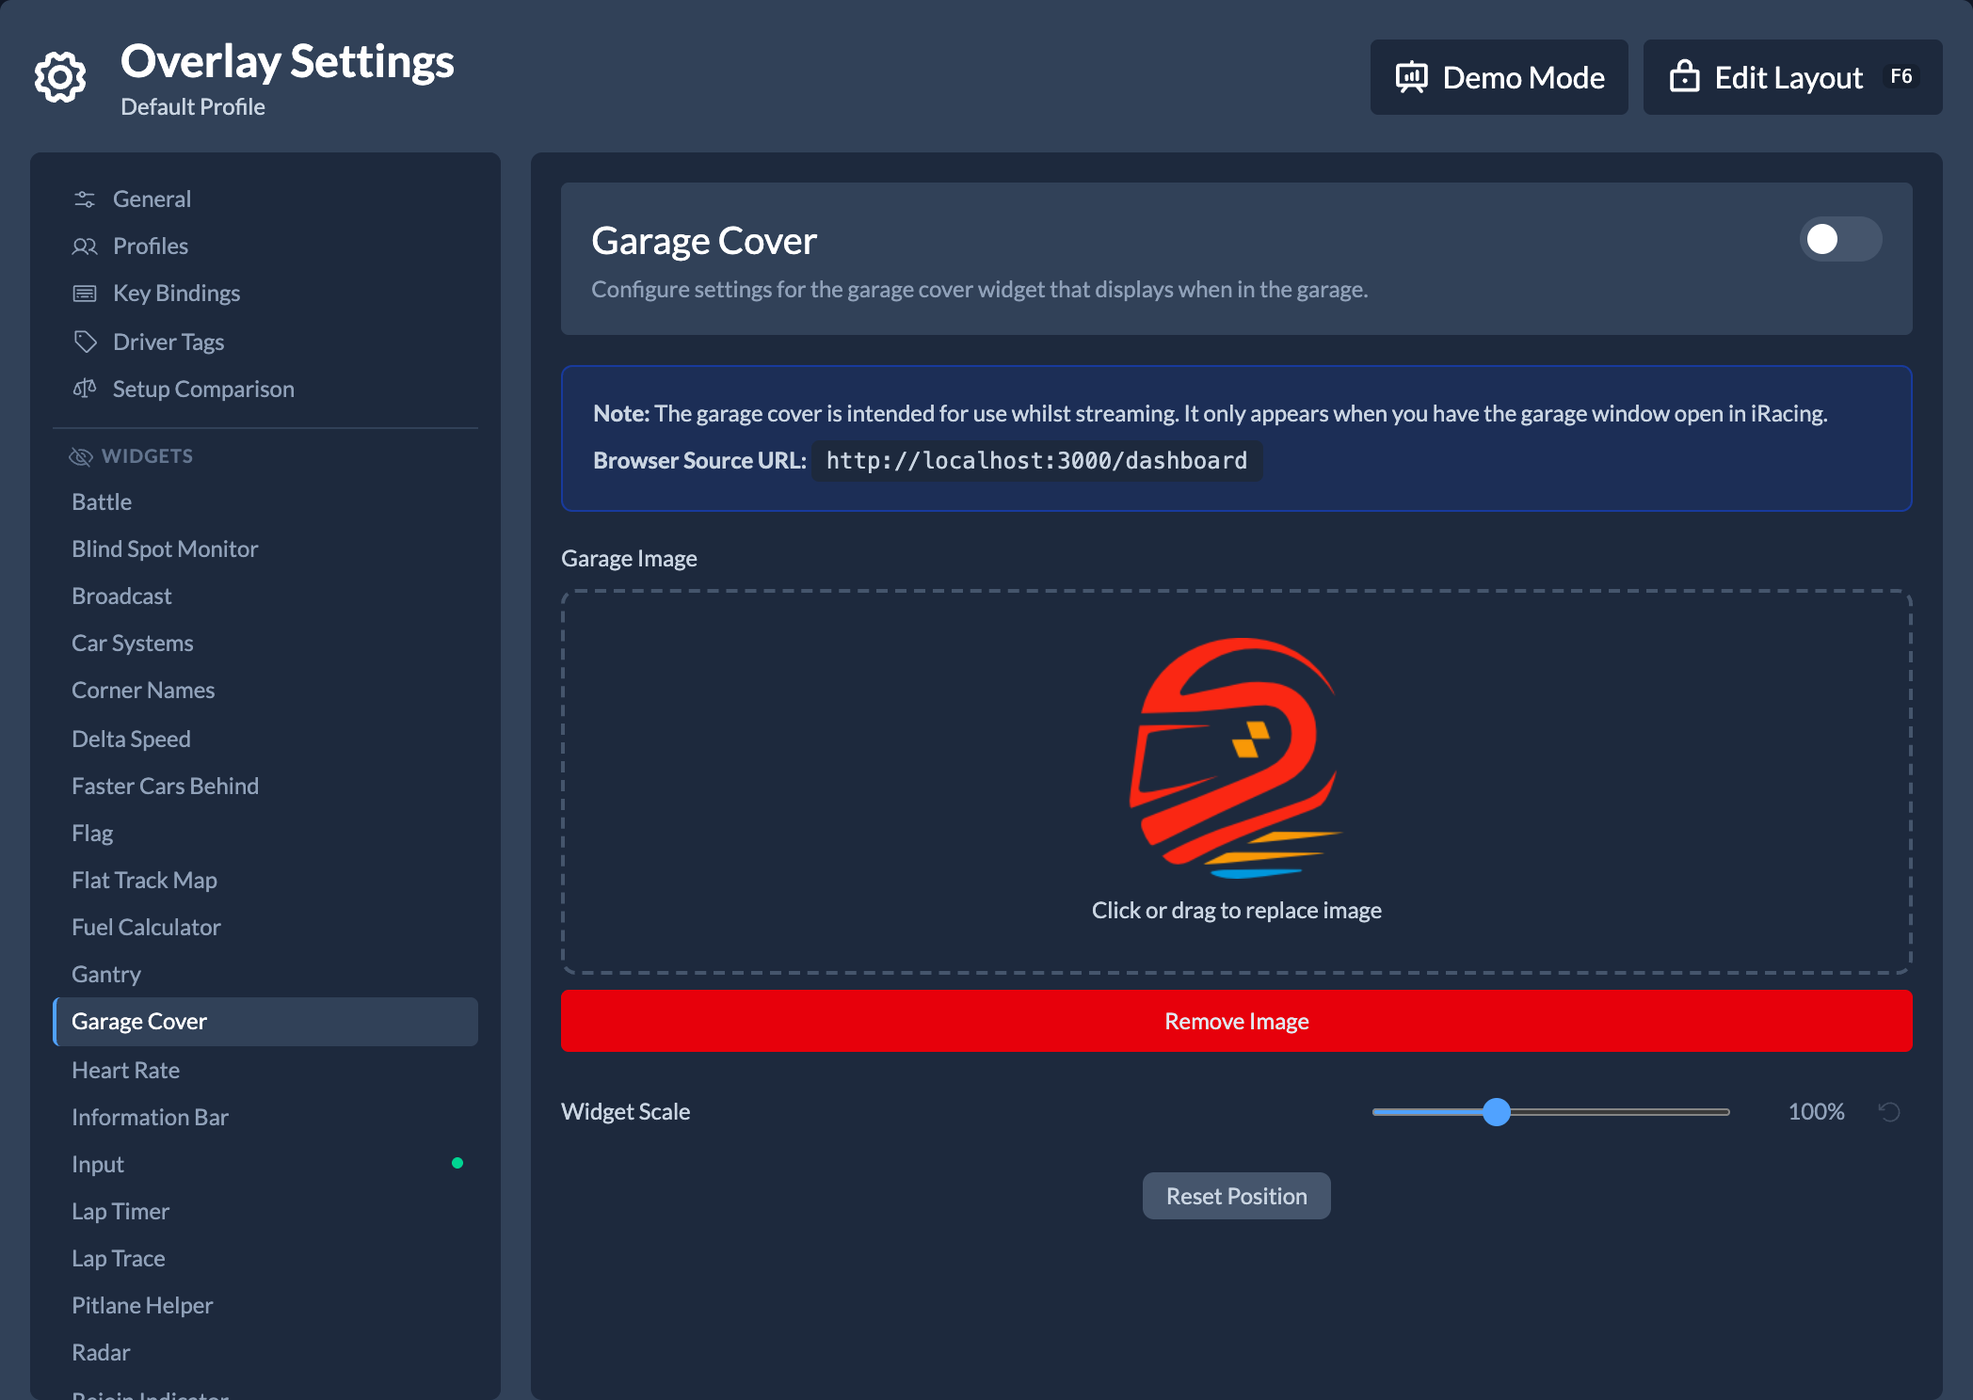
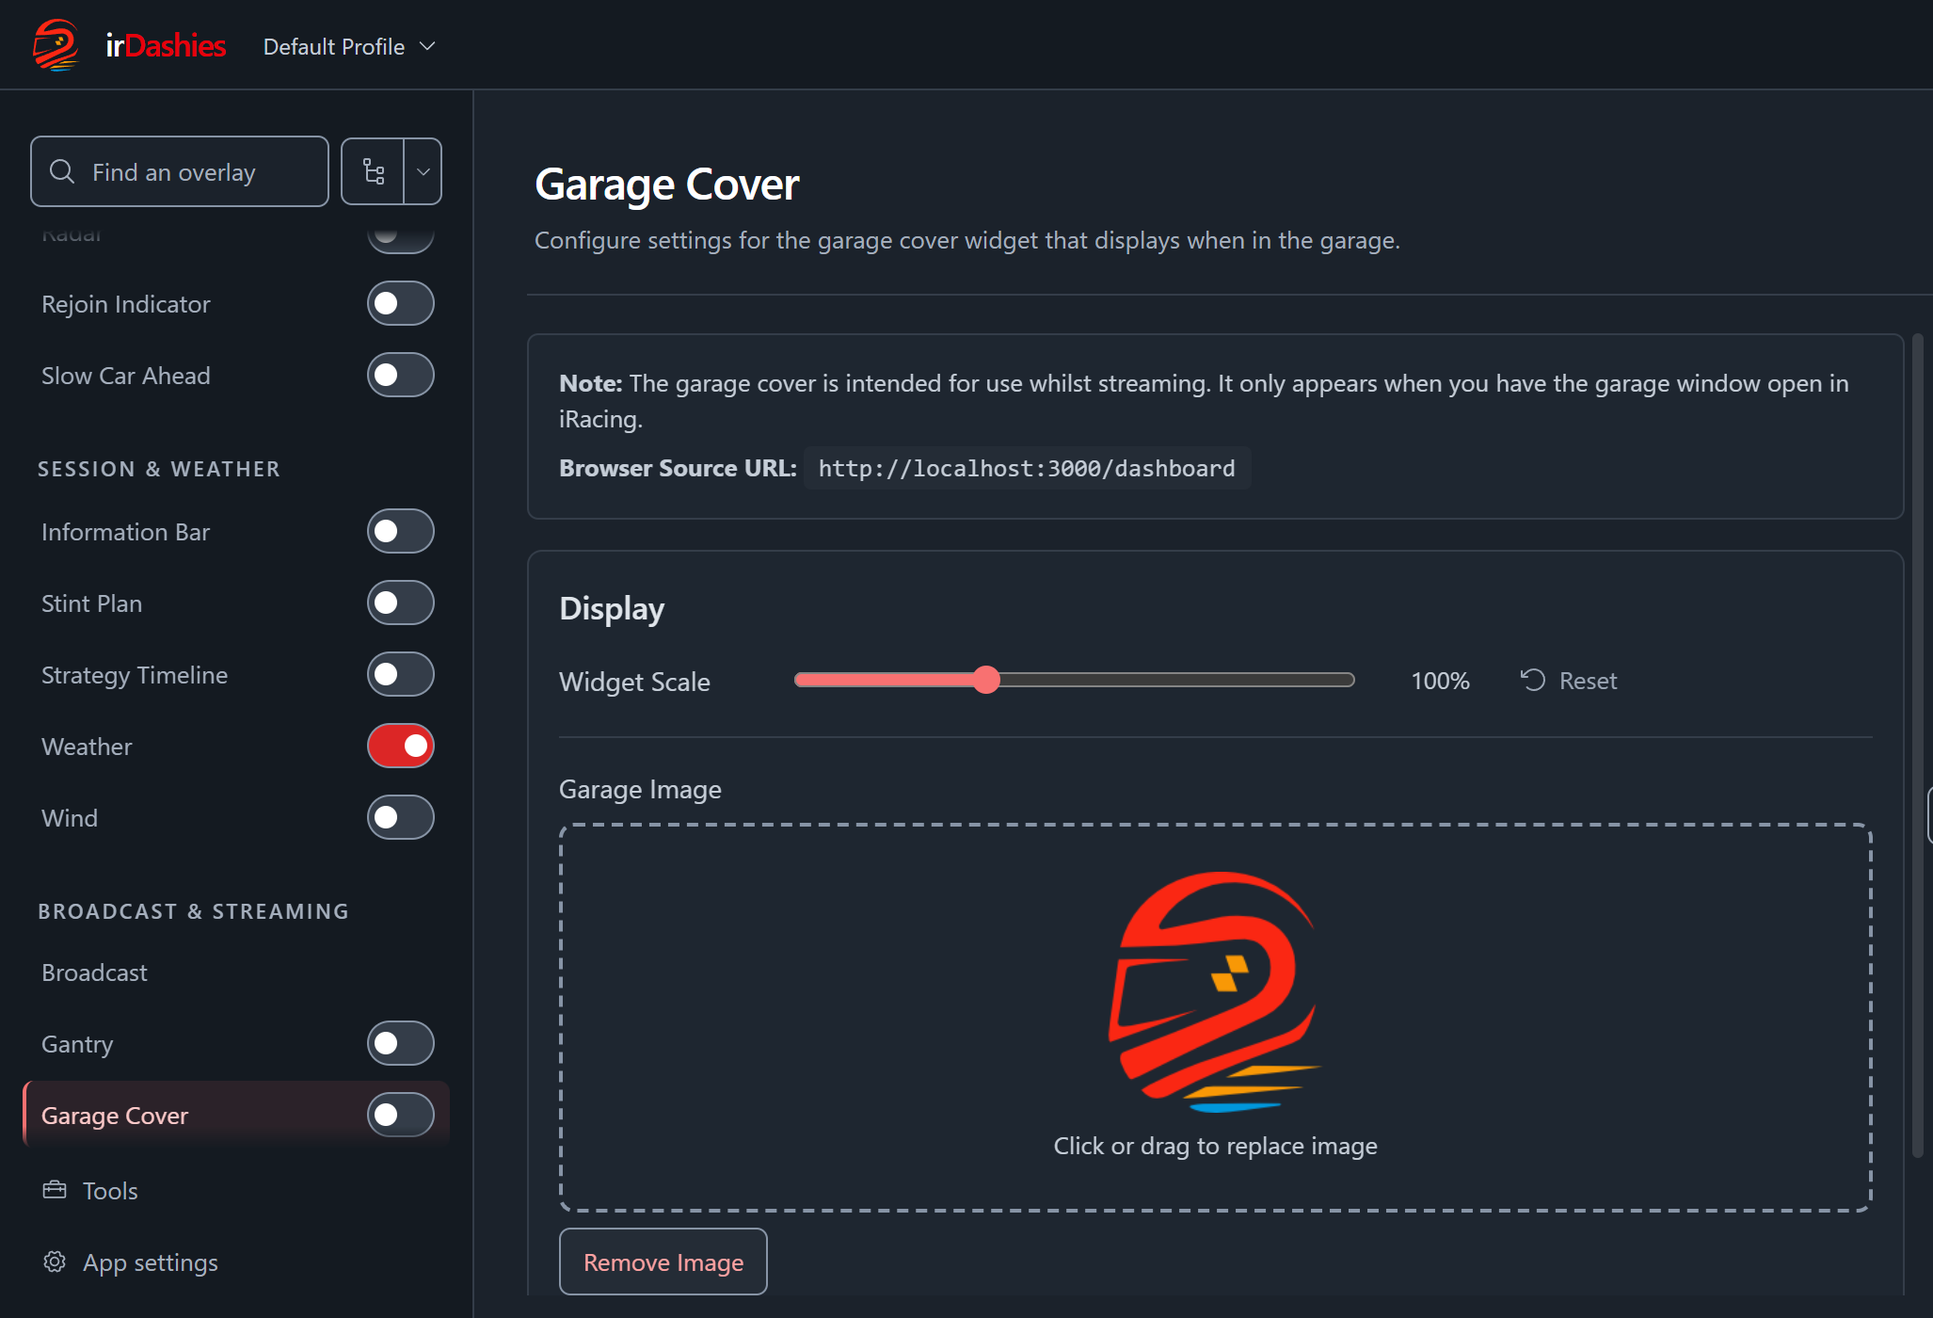
docs: bring overlay features and screenshots up to date (#945)

diff --git a/README.md b/README.md
@@ -22,6 +22,8 @@ Install the Windows .exe and run it. The application will automatically update w
 - [Introduction](#introduction)
 - [Supported simulators](#supported-simulators)
 - [Available overlays](#available-overlays)
+- [iRacePlan and endurance strategy](#iraceplan-and-endurance-strategy)
+- [The Gantry](#the-gantry)
 - [Prerequisites](#prerequisites-for-development)
 - [Installation](#installation-for-development)
 - [Usage](#usage-for-development)
@@ -40,11 +42,11 @@ Install the Windows .exe and run it. The application will automatically update w
 
 This project is built with React and Electron and retrieves live telemetry from iRacing and Le Mans Ultimate to power configurable overlays and race utilities.
 
-See the [latest release notes](https://github.com/tariknz/irdashies/releases/latest) for the latest updates.
+See the [latest release notes](https://github.com/tariknz/irdashies/releases/latest) for recent changes.
 
 ## Supported simulators
 
-iRacing is the primary supported simulator. Le Mans Ultimate support is in beta as of [v2.0.0](https://github.com/tariknz/irdashies/releases/tag/v2.0.0), with a limited set of supported widgets.
+iRacing is the primary supported simulator. Le Mans Ultimate support is in beta and covers a limited set of widgets.
 
 Choose **Auto**, **iRacing**, or **Le Mans Ultimate** in **Settings > General > Simulator**. Auto detects the running simulator and follows simulator changes without restarting irDashies. If both simulators are active when detection runs, iRacing takes priority; select Le Mans Ultimate explicitly if needed. Unsupported widgets are hidden for the active simulator.
 
@@ -53,12 +55,12 @@ Choose **Auto**, **iRacing**, or **Le Mans Ultimate** in **Settings > General > 
 1. In LMU, enable **Settings > Gameplay > Enable Plugins**, then restart the simulator.
 2. Start irDashies and load into an LMU session to receive telemetry.
 
-**Supported overlays:** Standings, Relative, Input, Lap Trace, Pitlane Helper, Corner Names, Battle, Flag, Information Bar, Faster Cars From Behind, Shift Light, Sector Delta, Weather, Lap Timer, Delta Speed, and Garage Cover. Telemetry Inspector is also available for diagnostics. All other widgets are currently unavailable in LMU, including Fuel Calculator, both track maps, Radar, Gantry, Car Systems, and Tachometer.
+**Supported overlays** include Standings, Relative, Input, Lap Trace, Pitlane Helper, Corner Names, Battle, Flag, Information Bar, Faster Cars From Behind, Shift Light, Sector Delta, Weather, Lap Timer, Delta Speed, and Garage Cover. Telemetry Inspector is also available for diagnostics. The Gantry, the iRacePlan widgets, Broadcast overlays, Fuel Calculator, both track maps, Radar, Car Systems, and Tachometer are iRacing-only.
 
-- Standings use class colours and manufacturer badges, with best-lap ordering in practice and position ordering in races. The Rating column shows each driver's LMU driver and safety rank, with AI entries marked AI; a human's rank can take a few seconds to appear after joining. Country flags, team names, and car numbers come from LMU. LMU keeps no incident count, and the iRating Change column is hidden.
+- Standings use class colours and manufacturer badges, with best-lap ordering in practice and position ordering in races. The Rating column shows LMU driver and safety ranks and marks AI entries. Country flags and ranks can take a few seconds to appear after drivers join. Team names and car numbers come from LMU. Standings and Relative show finish, DNF, and disqualification badges, and can display LMU track-limits points.
 - Corner Names and Lap Trace corner feedback depend on available LMU track data. Unnamed turns use turn numbers where provided.
-- Lap Trace does not yet check LMU lap validity, so laps invalidated by track limits may still become saved references. Imports support iRacing `.ibt` files and Garage 61 CSV laps, with no native LMU telemetry-file import.
-- Input and Lap Trace need your own car's telemetry, which can be unavailable while spectating or in the garage.
+- Lap Trace saves clean LMU laps once the official lap time arrives. Reference imports support iRacing `.ibt` files and Garage 61 CSV laps.
+- Input and Lap Trace need your own car's telemetry, which can be unavailable while spectating or in the garage. Overlays set to show only while driving stay visible when you pause on track and hide when you return to the session monitor.
 - Lap positions are estimated between updates; cars without full telemetry may update in larger steps. Automatic units are metric, and Pitlane Helper currently uses a fixed 60 km/h pit limit.
 - LMU in-game replays do not yet have iRacing's replay-aware handling. LMU session recording and playback tools are development tools.
 
@@ -101,13 +103,14 @@ Compares your current lap against a saved reference to show where you gain or lo
 
 **Features:**
 
-- Automatically saves the fastest reference lap for each car and track, with clean-lap checks in iRacing
+- Automatically saves the fastest clean reference lap for each car and track
 - Import reference laps from iRacing `.ibt` telemetry files or Garage 61 CSV laps
 - Compare throttle, braking, and gear changes against the reference, with ABS activity where available
-- Configurable audio or visual countdowns to reference braking points, with audio-device selection and a minimum brake-pressure filter
+- Configurable audio or visual countdowns to reference braking points, with audio-device selection and a minimum brake-pressure filter adjustable from 0% to 25%
 - Corner feedback showing time gained or lost, braking distance, and minimum speed where corner data is available
+- Layout editor to arrange Trace, Last Corner, and Countdown Bars in rows or columns and omit panels you do not need
 
-<img src="./docs/assets/laptrace.png" alt="Lap Trace comparing a driven lap with a saved reference" width="444">
+<img src="./docs/assets/laptrace.png" alt="Lap Trace with corner feedback, reference traces, and braking countdown bars arranged side by side" width="660">
 
 ### Tachometer
 
@@ -182,6 +185,7 @@ Displays standings information for the current session.
 - Timing information: gap, interval, best lap time, last lap time (multiple time format options)
   - Configurable decimal precision (1, 2, or 3) for gap and interval
   - Gap and interval display in practice and qualifying sessions
+  - Optional Average Lap Time column using 1–100 recorded laps, with a choice of time format and an option to exclude in-laps and out-laps
 - Optional column headers
 - Class headers:
   - Estimated race lap counts, or scheduled totals in fixed-lap races
@@ -246,6 +250,7 @@ Displays drive relative delta information for the current session.
 - Styling customizations: toggle minimal license badges, minimal status badges, position background color, and car number background/border independently
 - Relative delta timing display with configurable precision
 - Timing information: best lap time, last lap time (multiple time format options: full, mixed, minutes, seconds-full, seconds-mixed, seconds)
+- Optional Average Lap Time column using 1–100 recorded laps, with a choice of time format and an option to exclude in-laps and out-laps
 - Optional Push-to-Pass column, showing a driver's active state and remaining time in supported series
 - Configurable radio icon duration, so recent transmissions remain visible without flickering
 - Lap time delta column (configurable number of laps: 1-5)
@@ -357,19 +362,17 @@ Displays wind direction and speed as a standalone overlay.
 
 ### Faster Cars From Behind
 
-Displays information about faster cars approaching from behind, including driver name, distance, and a visual indicator that pulses when cars are close.
+Shows faster cars approaching from behind with their class position, time gap, and a proximity bar.
 
 **Features:**
 
-- Driver name and distance display
-- Visual pulsing indicator when cars are close
-- Configurable distance threshold for alerts
-- Real-time detection of faster approaching cars
-- Pit status filtering: Option to exclude cars in the pits
+- Optional driver name, rating badge, and gap countdown in a configurable display order
+- Proximity bar that follows the configured detection range and turns red when a car gets close
+- Row density follows the Normal, Compact, or Ultra setting in General
+- Option to exclude cars in the pits
 - Automatically hidden when on pit road
-- Multiple driver display settings for more control over what's shown
 
-![Faster Cars From Behind](./docs/assets/fastercarsfrombehind.png)
+<img src="./docs/assets/fastercarsfrombehind.png" alt="Faster Cars From Behind showing three approaching cars with class positions, ratings, and time gaps" width="344">
 
 ### Fuel Calculator
 
@@ -543,7 +546,7 @@ Helps you manage your pit stops with clear visual guidance. It assists with spee
 - Best and last lap: Display the best and last lap times.
 - Personal best lap: Optionally show the best lap ever recorded by irDashies for the current car and track combo, persisted across sessions.
 - Lap history: Show a history of your most recent lap times along with optional deltas.
-- Optionally hide pit laps from the lap history list and graph.
+- Optionally hide pit laps from the history and graph. **Hide Caution Laps** also filters full-course caution laps from the displayed history, graph, and average.
 - Fully configurable: Decide which laps your interested in and toggle them on and off individually.
 - Fully customisable: Resize, scale and align to position the widget to your taste.
 
@@ -599,7 +602,7 @@ Displays racing flags in an LED-matrix style, automatically showing the most rel
 
 ### Setup Comparison Tool
 
-Side-by-side setup analysis to compare car setup changes between sessions.
+Open **Settings > Tools > Setup Comparison** to compare iRacing car setups side by side.
 
 **Features:**
 
@@ -680,15 +683,28 @@ Displays the current track section (corner or named straight) along with corner 
 
 <img src="./docs/assets/cornername.png" alt="Corner Names showing the current turn and progress" width="312">
 
+### iRacePlan and endurance strategy
+
+Open **Settings > Tools > Race Plan** and enter an iRacePlan API key to choose a planning and strategy for your iRacing endurance race. irDashies can refresh the plan automatically or on demand and keeps the last loaded plan available offline.
+
+- **Stint Plan** shows the current stint, lap progress, when to box, the fuel target, the next driver, and how far ahead of or behind the plan you are.
+- **Strategy Timeline** compares planned and projected driver stints, adjusts after unplanned stops, and flags driver availability conflicts and stints that no longer fit. Use it as an overlay or dock it in the Gantry.
+
+Both widgets are off by default and require a loaded race plan.
+
+<img src="./docs/assets/stint-plan.png" alt="Stint Plan showing lap progress, fuel target, and the next driver">
+
+<img src="./docs/assets/strategy-timeline.png" alt="Strategy Timeline showing planned and projected driver stints">
+
 ### The Gantry
 
-A race control window with live standings, an automatic incident feed, and a per-lap graph. Unlike the other widgets it opens in its own resizable window instead of sitting on top of the sim, so it suits a second monitor, a spotter, or a race director. Enable it in Settings, then use **Show Window** to bring it back if you close it.
+A resizable race control window with live standings, an automatic incident feed, lap graphs, and pit-stop tracking. It can sit on a second monitor for a spotter or race director. Enable it in Settings and use **Show Window** to bring it back if you close it.
 
 **Features:**
 
 - Standings and incidents shown side by side with a draggable divider, plus a separate Lap Graph tab
 - Optional always-on-top mode, controlled from the tab bar or settings for windowed or borderless simulators
-- Dock Fuel Calculator, Track Map, or Flat Track Map panels beneath the incident feed, side by side or in tabs, with optional Gantry-only fuel layouts
+- Dock Fuel Calculator, Track Map, Flat Track Map, or Strategy Timeline panels beneath the incident feed, side by side or in tabs, with optional Gantry-only fuel layouts
 - Review recorded incidents and lap history while watching an iRacing replay; history follows the selected replay session and requires recordings made by irDashies on this PC
 - Final standings and lap graphs remain available after iRacing closes, including when switching tabs, until the next session loads or irDashies closes
 - Standings list
@@ -714,10 +730,24 @@ A race control window with live standings, an automatic incident feed, and a per
   - Hover the chart for a crosshair readout of the nearby lines; hover a name to lift that driver's line above the field
   - Pan and zoom the lap window by dragging or scrolling, with an overview strip below the chart, and it follows the latest lap
   - Configurable default axis, laps shown, and auto-pin
+- Pit Stops
+  - Review pit-lane time, stationary time, driver changes, and live pit timers with class and team filters
+  - Compare stop totals, average stint lengths, and estimated next-stop laps in the Teams view, and expand a team to see individual stops
+  - Record stops while the Gantry is enabled, including when its window is closed, and keep recent session history across restarts
+  - Jump to five seconds before a stop when replay controls are available
 
-![The Gantry](./docs/assets/gantry-standings-incidents.png)
+![Gantry window showing class standings and the incident feed](./docs/assets/gantry-standings-incidents.png)
 
-![Gantry Lap Graph](./docs/assets/gantry-chart.png)
+<details>
+<summary>Lap Graph, Pit Stops, and team strategy</summary>
+
+![Gantry Lap Graph showing GTP class position changes on laps 8–29 of a recorded Road Atlanta race](./docs/assets/gantry-chart.png)
+
+![Gantry Pit Stops showing stop durations, driver changes, and live timers](./docs/assets/gantry-pit-stops.png)
+
+![Gantry Teams view showing stop totals, average stint lengths, and estimated next stops](./docs/assets/gantry-pit-teams.png)
+
+</details>
 
 ### Broadcast overlays
 
@@ -725,14 +755,14 @@ TV-style overlays for iRacing streams, configured together in **Settings > Broad
 
 **Features:**
 
-- **Tower:** Multi-class standings with rotating or fixed pages for names, gaps, positions gained, pit stops, and tyres; optional focused-driver card and pre-race/post-race screens
+- **Tower** shows multi-class standings with rotating or fixed pages for names, gaps, position changes, pit stops, tyres, last laps, and best laps. It also has optional pre-race and post-race screens and a focused-driver card with its own last- and best-lap controls.
 - **Ticker:** A scrolling standings strip for the bottom of your broadcast
 - **Events:** Timed alerts for incidents, flags, fastest laps, pit stops, and race milestones, with selectable event types
 - **Weather:** A weather panel shown at configurable intervals
 - **Podium:** Class podiums after the checkered flag, with steps or trophy styles
 - IMSA, WEC, and F1 themes, a custom logo and title, and configurable backgrounds
 
-<img src="./docs/assets/broadcast-tower.png" alt="Broadcast Tower with multi-class standings and a focused-driver card" width="300">
+<img src="./docs/assets/broadcast-tower.png" alt="Broadcast Tower on its Best Lap page with a focused-driver card" width="300">
 
 ![Broadcast Ticker with scrolling standings](./docs/assets/broadcast-ticker.png)
 
@@ -756,8 +786,8 @@ TV-style overlays for iRacing streams, configured together in **Settings > Broad
   - Each profile can be accessed as its own browser source URL for OBS streaming
   - Dashboard import/export to share layouts between users or back up your setup
 - Streamer & OBS Ready
-  - Built-in Web Server: All overlays can be used as a browser source in OBS. `http://localhost:3000/dashboard` follows the active profile; `http://localhost:3000/dashboard?profile=<profileId>` selects a specific profile. Copy the actual URLs from Settings > Profiles if the server uses another port.
-  - Separate browser layouts: Each profile stores its browser widget positions independently of the desktop layout. Use **Settings > Profiles > Actions > Edit Browser Layout** to arrange widgets for OBS. Set the browser source's width and height to match your intended canvas.
+  - Use the built-in web server to add overlays as browser sources in OBS. `http://localhost:3000/dashboard` follows the active profile and `http://localhost:3000/dashboard?profile=<profileId>` selects a specific profile. Copy the actual URLs from **Settings > Tools > Profiles** if the server uses another port.
+  - Each profile stores its browser widget positions independently of the desktop layout. Use **Settings > Tools > Profiles > Actions > Edit Browser Layout** to arrange widgets for OBS. Set the browser source's width and height to match your intended canvas.
   - Single Widget URLs: `http://localhost:3000/widget/<widgetId>` shows one widget filling the page, including widgets hidden from the desktop layout, for hosts that take one page per source such as OpenKneeboard in VR. `http://localhost:3000` lists the URL for every widget in the active dashboard; older component links redirect to the widget pages.
   - Optional Web Server: Disable the built-in server when browser sources are not needed; restart the app to free its port.
   - Network Access: Enable network access in settings to allow other devices on your local network to access the dashboard (useful for dual-PC streaming setups).
@@ -775,6 +805,7 @@ TV-style overlays for iRacing streams, configured together in **Settings > Broad
   - Per-widget visibility shortcuts: Show or hide individual widgets without affecting the rest of the dashboard.
   - Global toggle (Alt+H by default): Quickly hide or show all your overlays with a single keyboard shortcut.
   - Reset widget position: Reset any widget's position to the top-left corner if it gets lost off-screen.
+  - In Edit Layout, drag an overlay near the middle of its screen to snap to a vertical guide. Hold Shift to bypass snapping.
   - Close to tray: Closing the window minimizes to the system tray instead of quitting (configurable).
   - Always on top: Keep your overlays visible even when clicking on other windows.
   - System autostart: Optionally have the app start automatically when your computer boots up.
